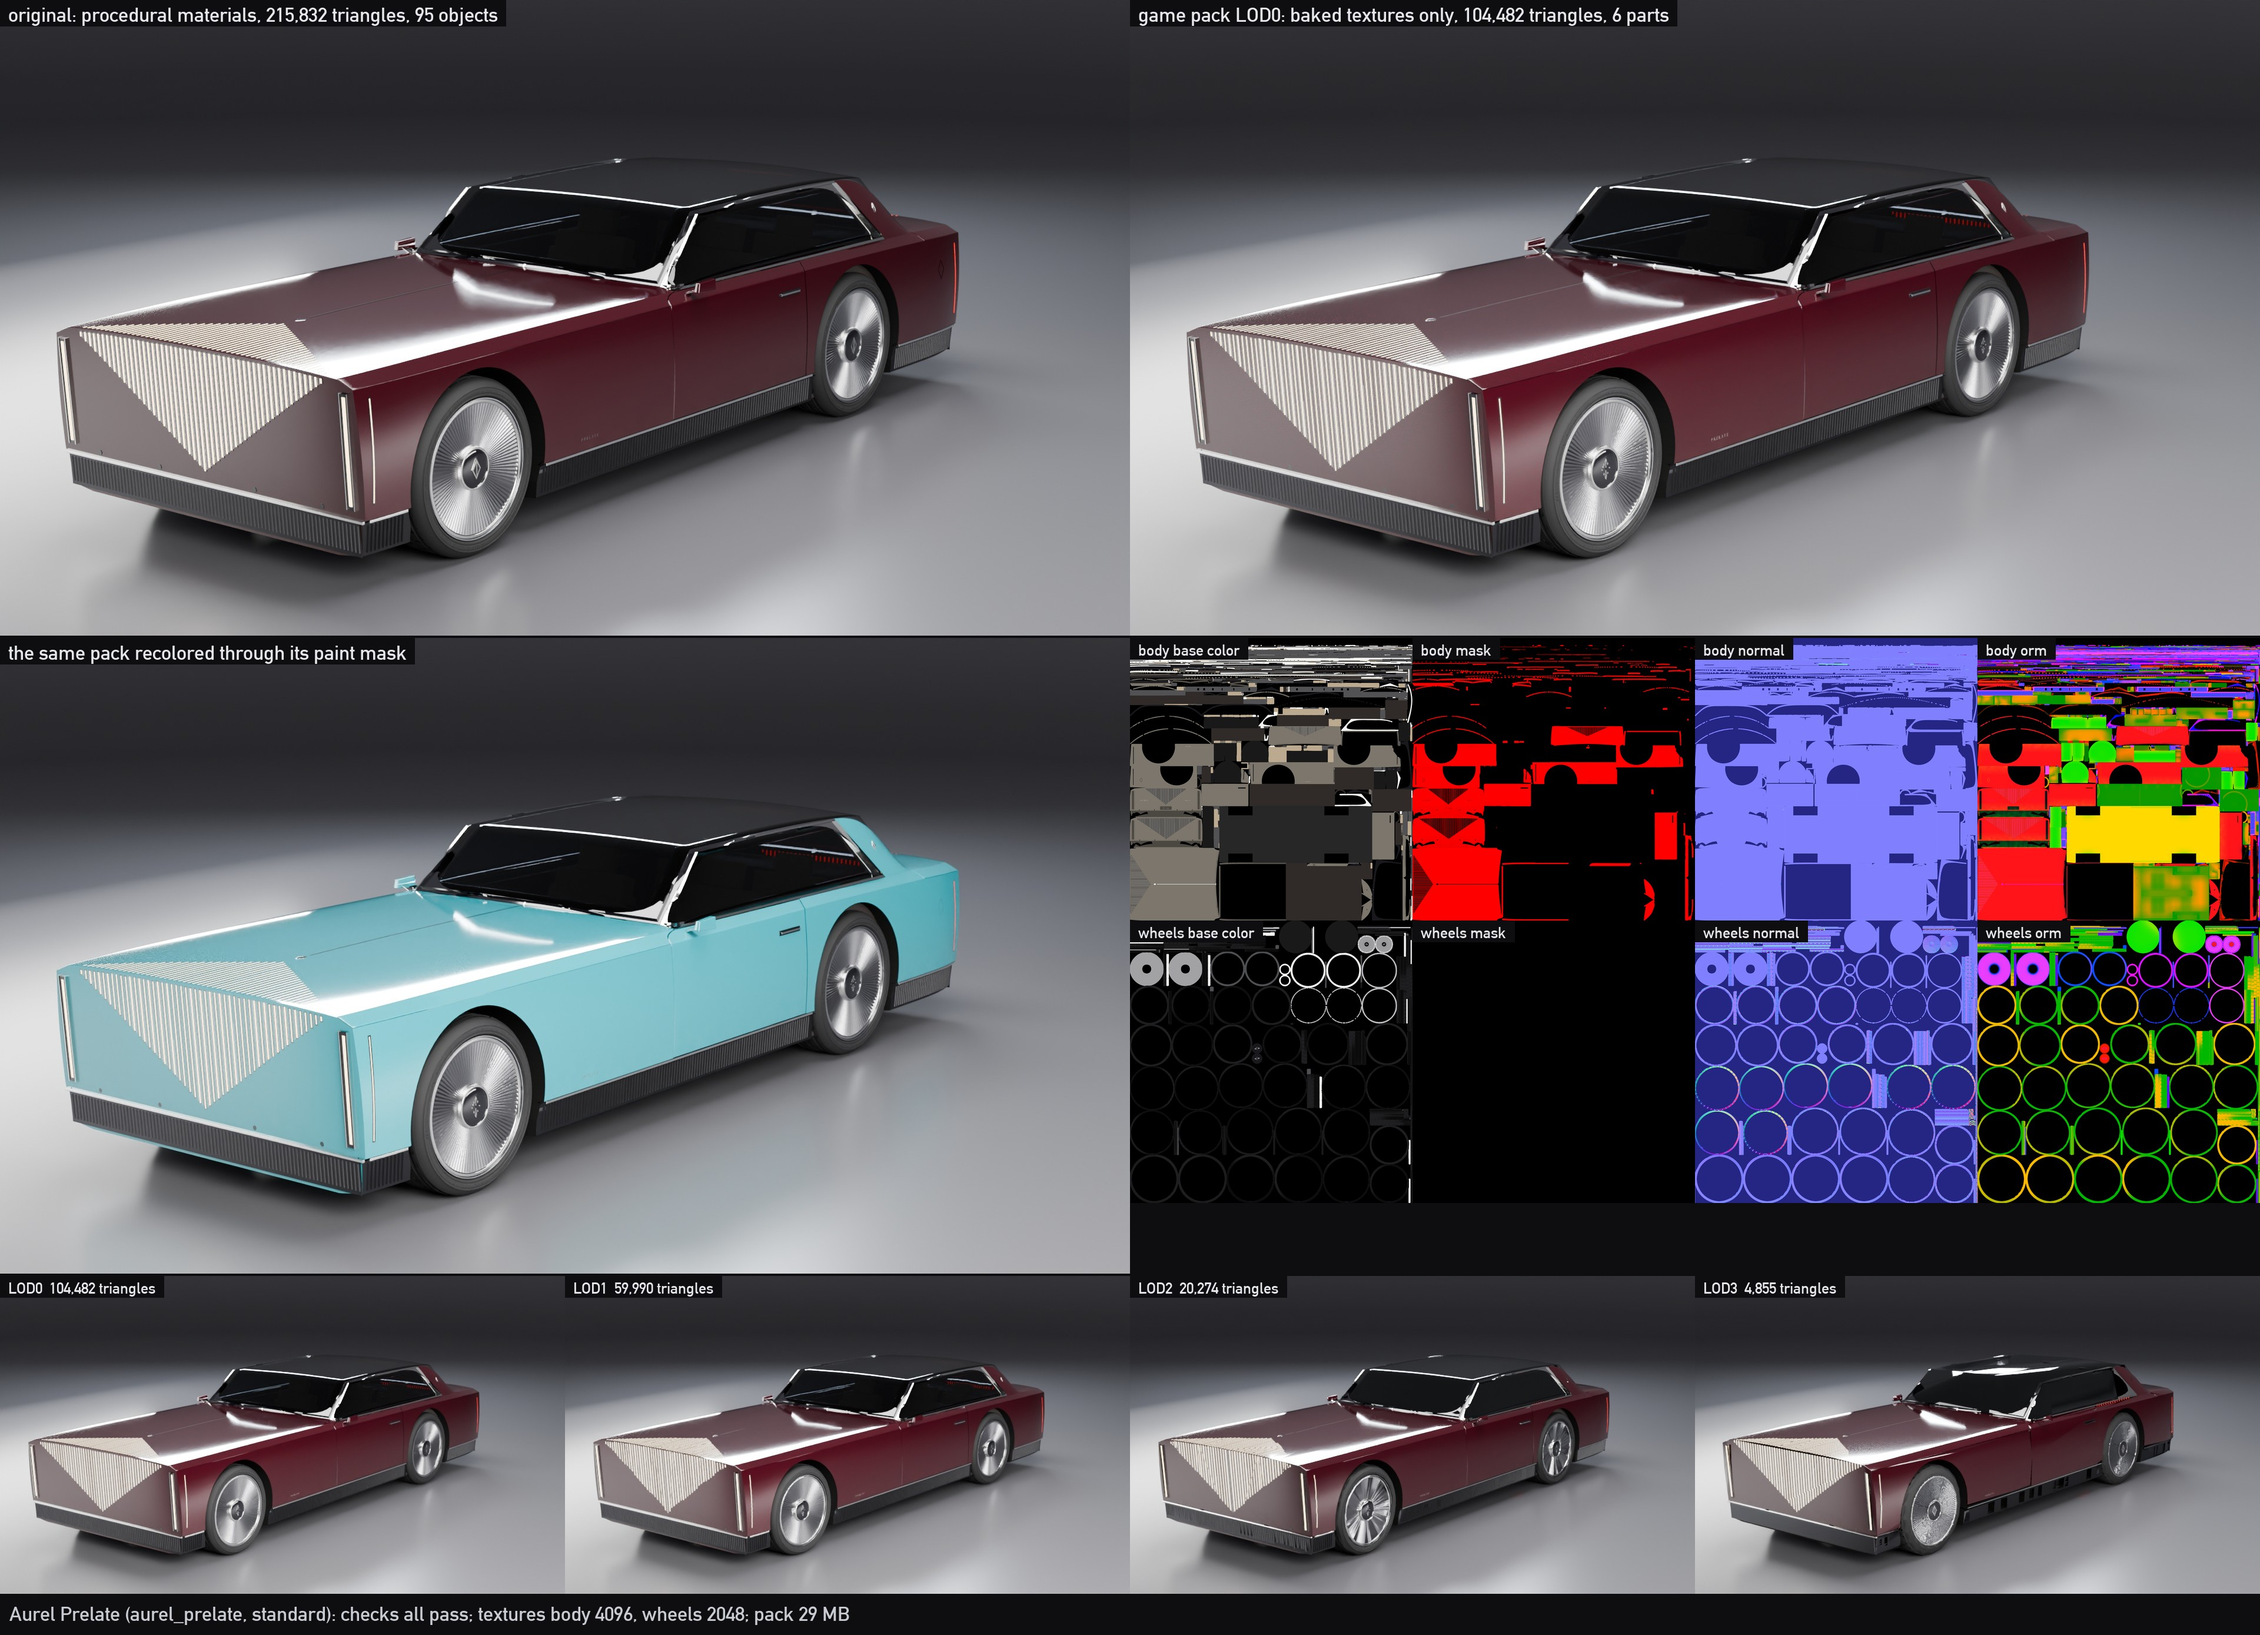
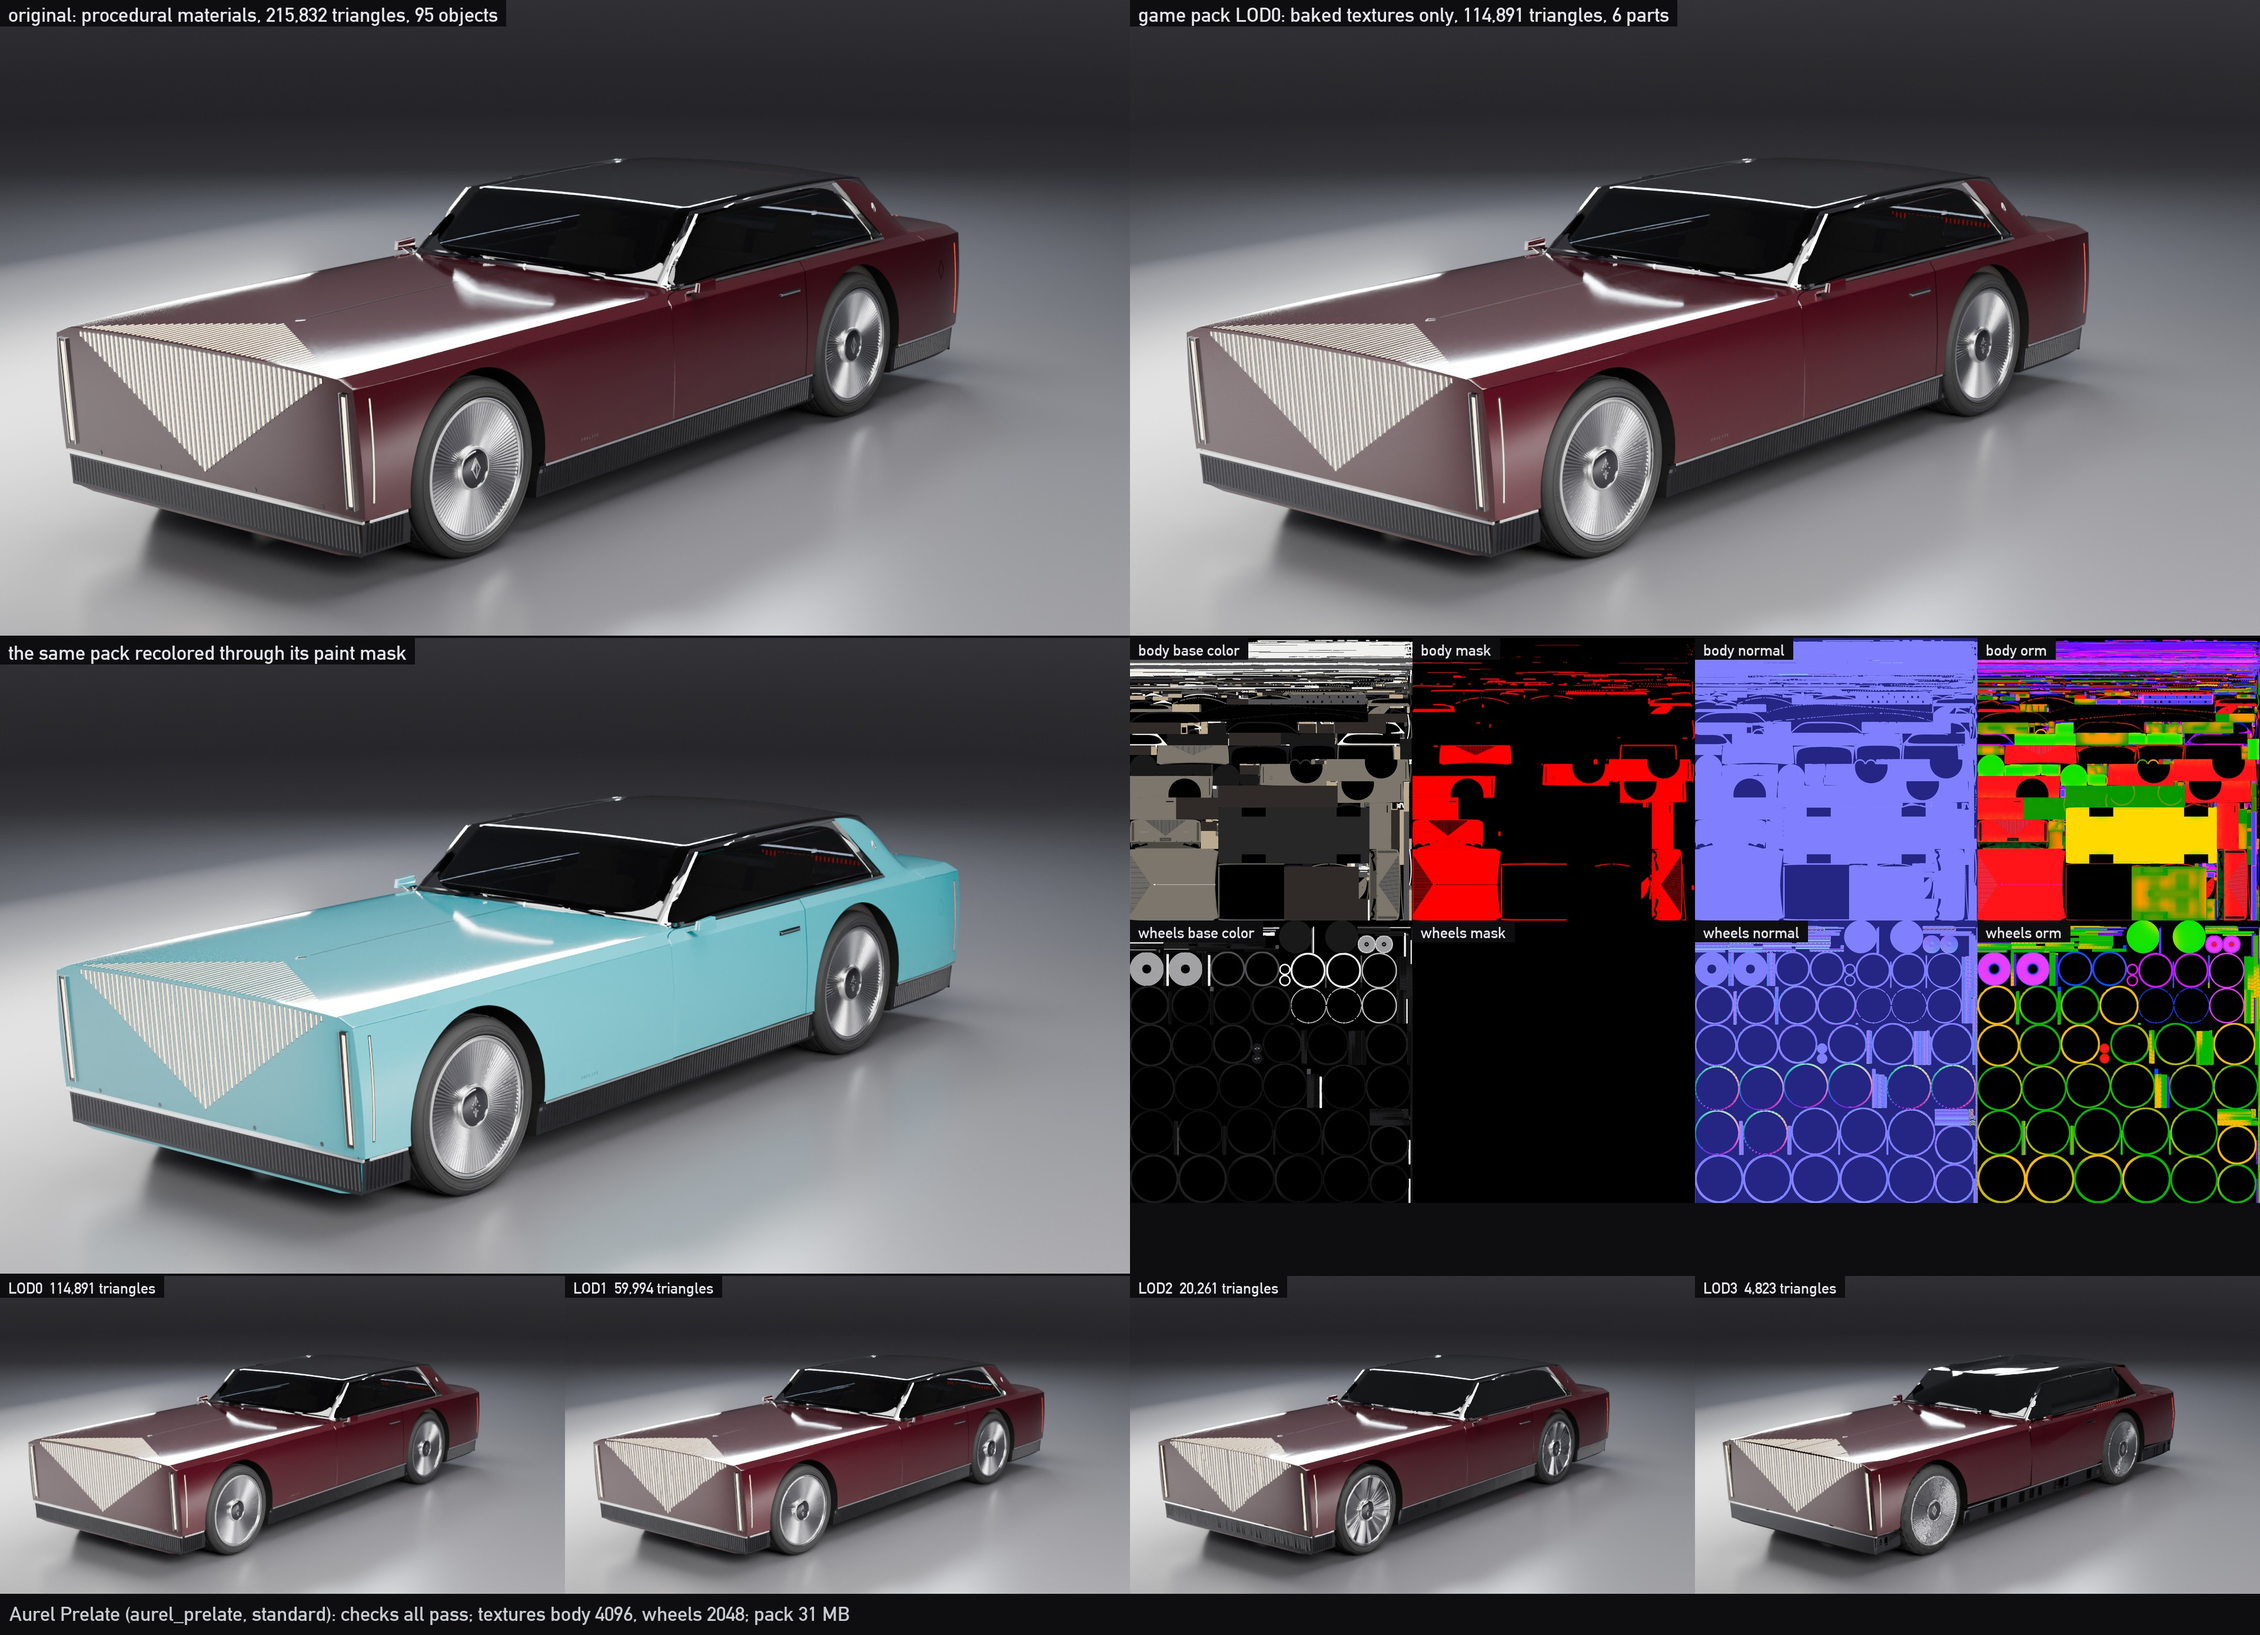
wip: pack faults 5

diff --git a/vehicles/game.py b/vehicles/game.py
@@ -1279,8 +1279,8 @@ def fine_relief(relief, floor):
 
 def part_sizes(p):
     """A piece's loose parts by their boxes: the median of their middle size (a flute's or
-    a slot's width, a letter's) and of their largest (a flute's length, a letter's
-    height), in meters."""
+    a slot's width, a letter's), and the largest of their largest (a flute's length, the
+    tallest letter's height), in meters."""
     bm = bmesh.new()
     bm.from_mesh(p.me)
     bm.faces.ensure_lookup_table()
@@ -1292,8 +1292,7 @@ def part_sizes(p):
         big.append(d[2])
     bm.free()
     mid.sort()
-    big.sort()
-    return (mid[len(mid) // 2], big[len(big) // 2]) if mid else (1e9, 1e9)
+    return (mid[len(mid) // 2], max(big)) if mid else (1e9, 1e9)
 
 
 def under_tree(me):
@@ -3733,9 +3732,11 @@ def main_build(A):
                     p.over = True
                     room -= p.tris
                     if part_sizes(p)[1] * floor_px < OVER_ONLY_PX:
-                        # too small for any image of it (letters a few texels tall,
-                        # screw heads): at LOD0 as it is, and nothing baked under it
-                        # (its image was dots, and showed round the letters)
+                        # every part of it too small for any image (letters a few
+                        # texels tall, screw heads): at LOD0 as it is, and nothing baked
+                        # under it (its image was dots, and showed round the letters). A
+                        # piece with one larger part keeps its image: a hull number among
+                        # small print must still be there from LOD1 on
                         p.op = "keep"
             kept = [p for p in cand if p.over]
             if kept:

diff --git a/vehicles/GAME.md b/vehicles/GAME.md
@@ -162,9 +162,10 @@ less, small lettering: no atlas draws them as lines and letters, they come out a
 pattern or as dots) is also kept as it is in LOD0, over its baked image (`kept_at_lod0` in
 `baked_down`), the smallest pieces first while that fits the budget and takes no more than
 20% of it; lamps never. Its faces are left out from LOD1 on, where the baked image alone
-draws it. Relief too small for any image (its parts under 8 texels long: letters 12 mm
-tall, screw heads) is kept at LOD0 the same way with nothing baked under it (`lod0_only`):
-its image was dots, and showed round the letters. What lies under relief (the faces the image is baked on, the islands given more
+draws it. Relief too small for any image (every part of it under 8 texels long: letters
+12 mm tall, screw heads) is kept at LOD0 the same way with nothing baked under it
+(`lod0_only`): its image was dots, and showed round the letters. A piece with one larger
+part (a hull number among small print) keeps its image. What lies under relief (the faces the image is baked on, the islands given more
 texels) is the panel, never the relief's own copy.
 
 Before the bakes every part's quads and larger faces are cut into triangles, so the bake,
